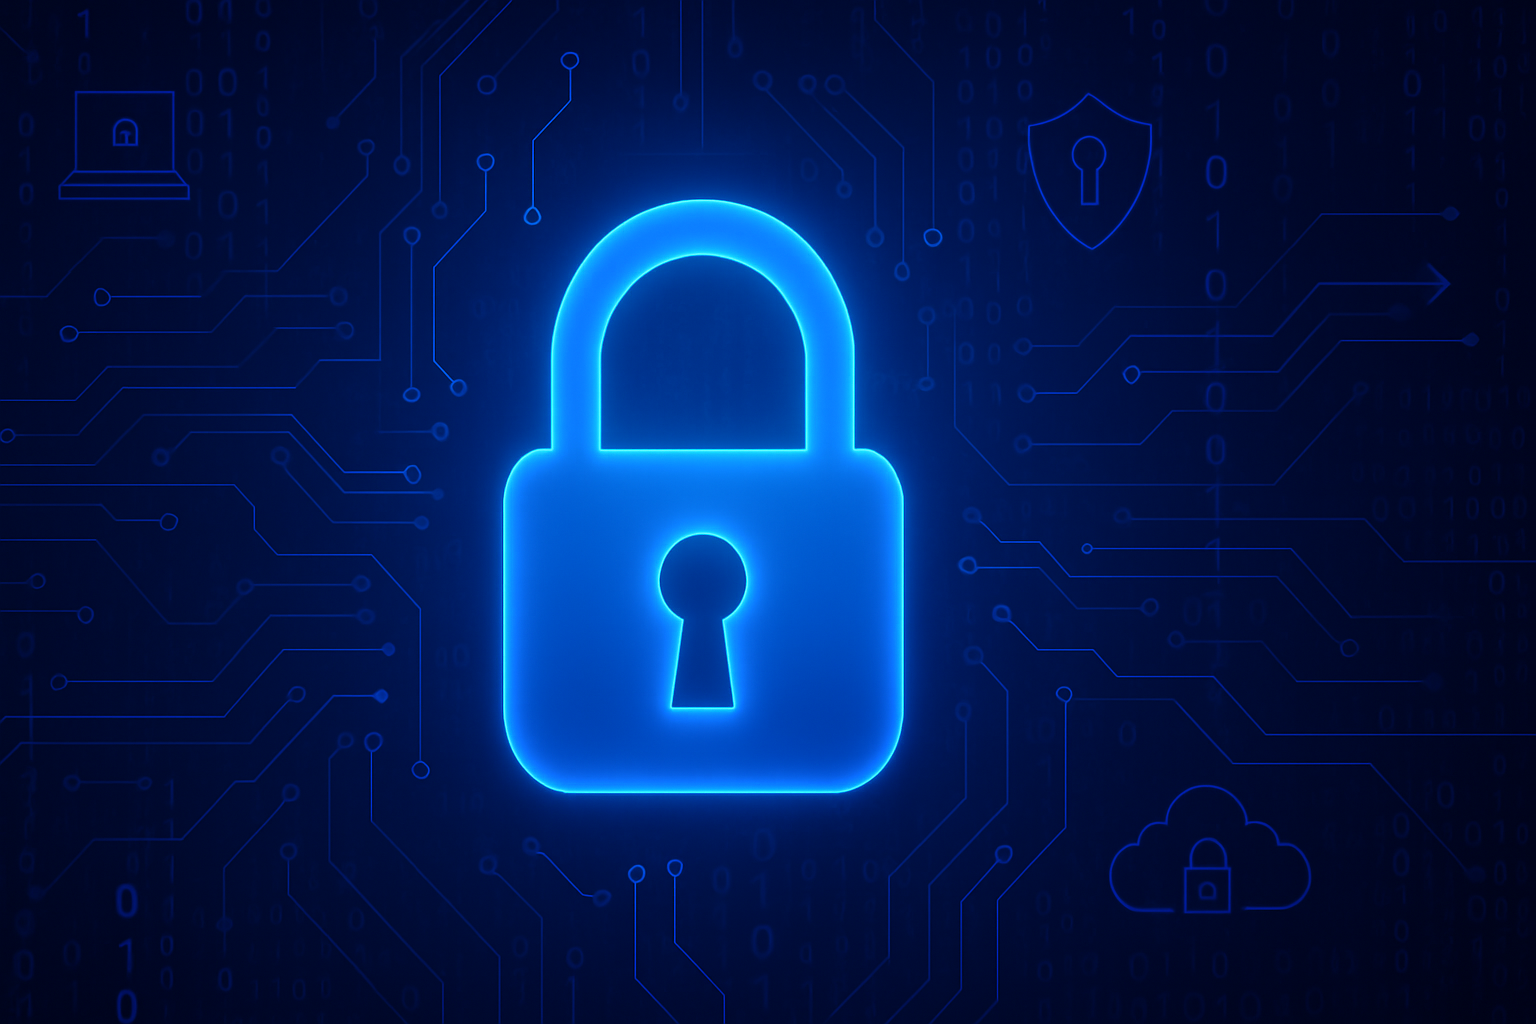
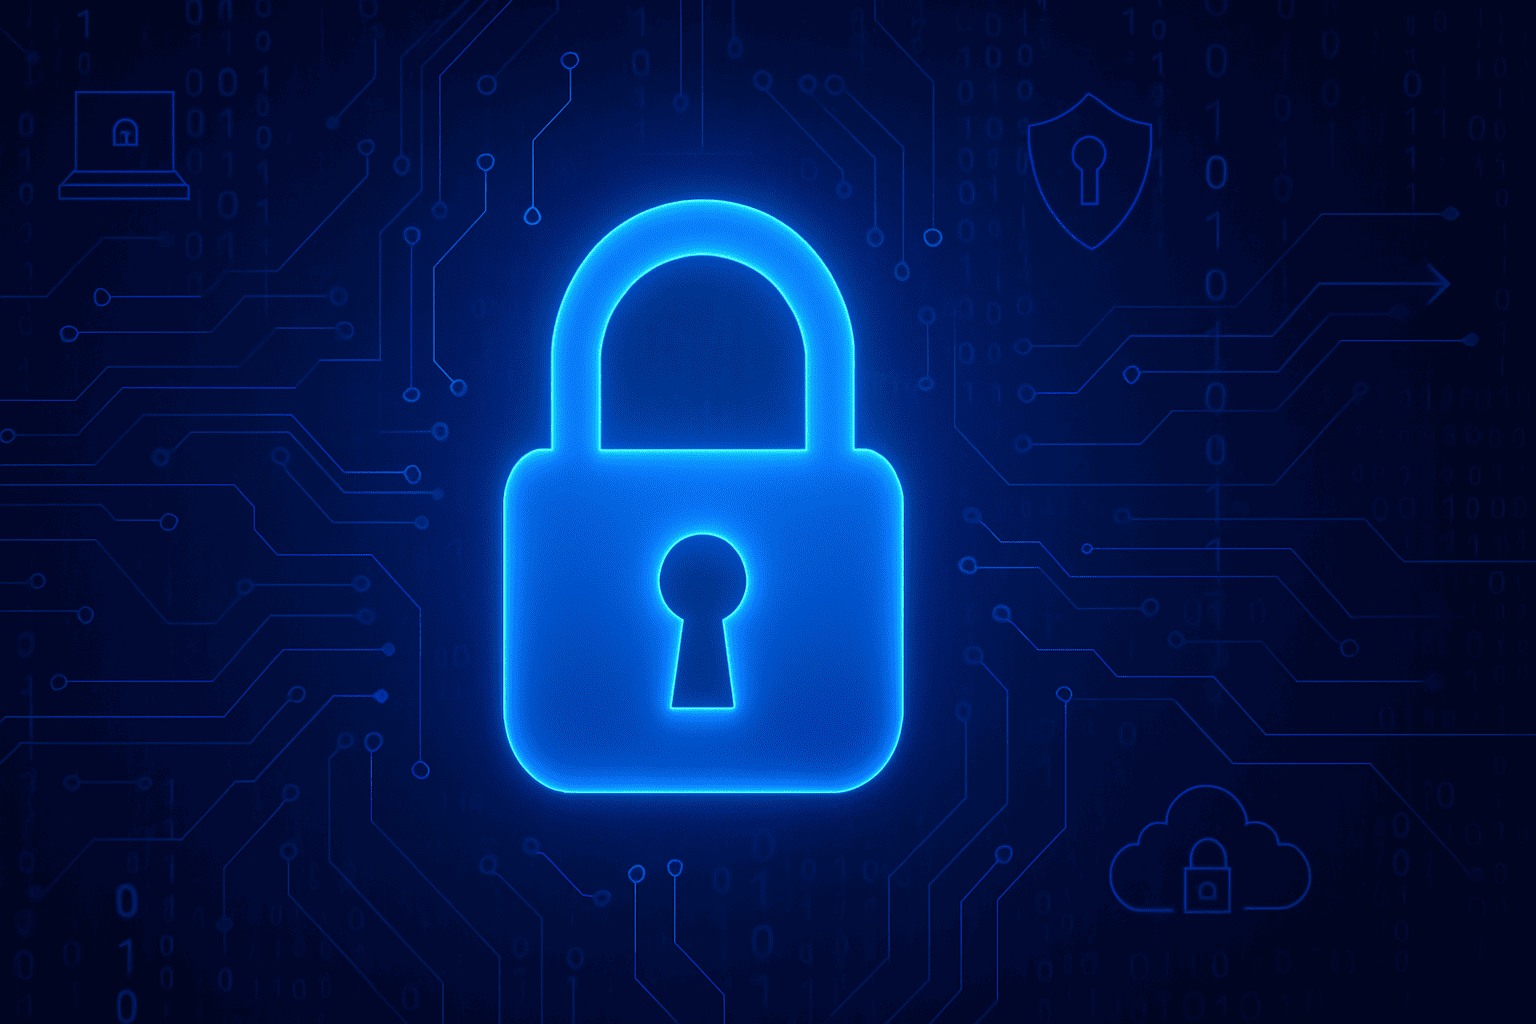
se agrego access_free.php y se modifico index.php para poder acceder sin iniciar sesion

Changed region(s): [[0.5, 0.7188, 0.5312, 0.75]]

diff --git a/PHP/Login_Creacion_Usuarios/styles/styles.css b/PHP/Login_Creacion_Usuarios/styles/styles.css
@@ -162,6 +162,10 @@ button {
     padding-right: 100px;
 }
 
+.space_p {
+    margin-top: 10px;
+}
+
 /*
 @media (max-width: 480px) {
     .wrapper {

diff --git a/PHP/Login_Creacion_Usuarios/index.php b/PHP/Login_Creacion_Usuarios/index.php
@@ -34,7 +34,7 @@ if(isset($_SESSION['connected'])) {
 <head>
     <meta charset="UTF-8">
     <meta name="viewport" content="width=device-width, initial-scale=1.0">
-    <title>Iniciar Sesion</title>
+    <title>Iniciar Sesion | Proyecto Académico</title>
     <link rel="icon" type="image/png" sizes="32x32" href="./img/icono.png">
     <link rel="icon" type="image/png" sizes="16x16" href="./img/icono.png">
     <link rel="stylesheet" href="./styles/styles.css">
@@ -77,16 +77,19 @@ if(isset($_SESSION['connected'])) {
                 <button type="submit">Ingresar</button>
         
                 <div class="register">
+                    <?php  
+                        session_unset(); // Eliminar variables de sesion
+                        session_destroy(); // Destriur sesion
+                    ?>
                     <p>
-                        No tengo cuenta
-                        <?php  
-                            session_unset(); // Eliminar variables de sesion
-                            session_destroy(); // Destriur sesion
-                        ?>
+                        1. No tengo cuenta
                         <a href="./register.php">Registrarse</a>
                     </p>
+                    <p class="space_p">
+                        2. <strong><a href="./access_free.php">Acceder sin cuenta</a></strong>
+                    </p>
                 </div>
-        
+
             </form>
         </div>
     </main>

diff --git a/PHP/Login_Creacion_Usuarios/access_free.php b/PHP/Login_Creacion_Usuarios/access_free.php
@@ -1,0 +1,9 @@
+<?php
+
+session_start();
+$_SESSION['usuario'] = "Usuario"; // usuario generico
+$_SESSION['connected'] = 1; // Indica que se inicio sesion
+header("location: ./pagina_principal.php");
+exit();
+
+?>
